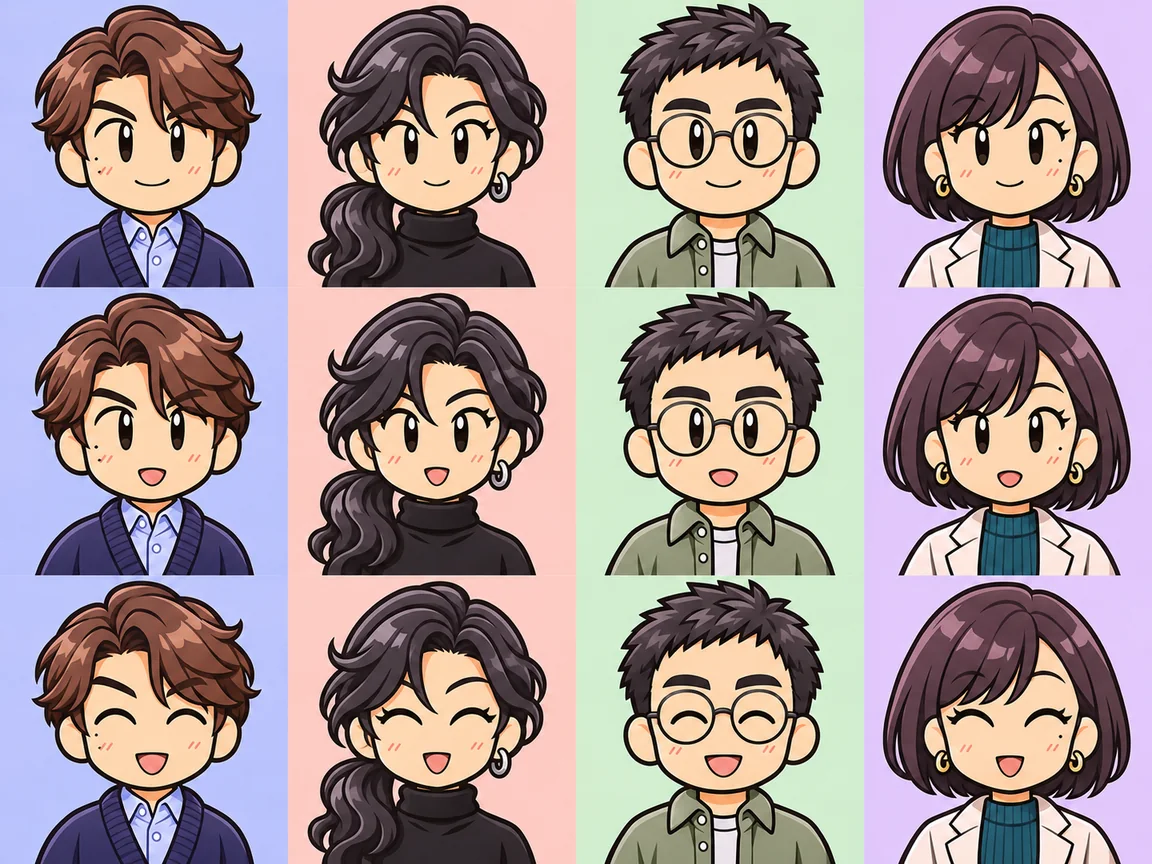
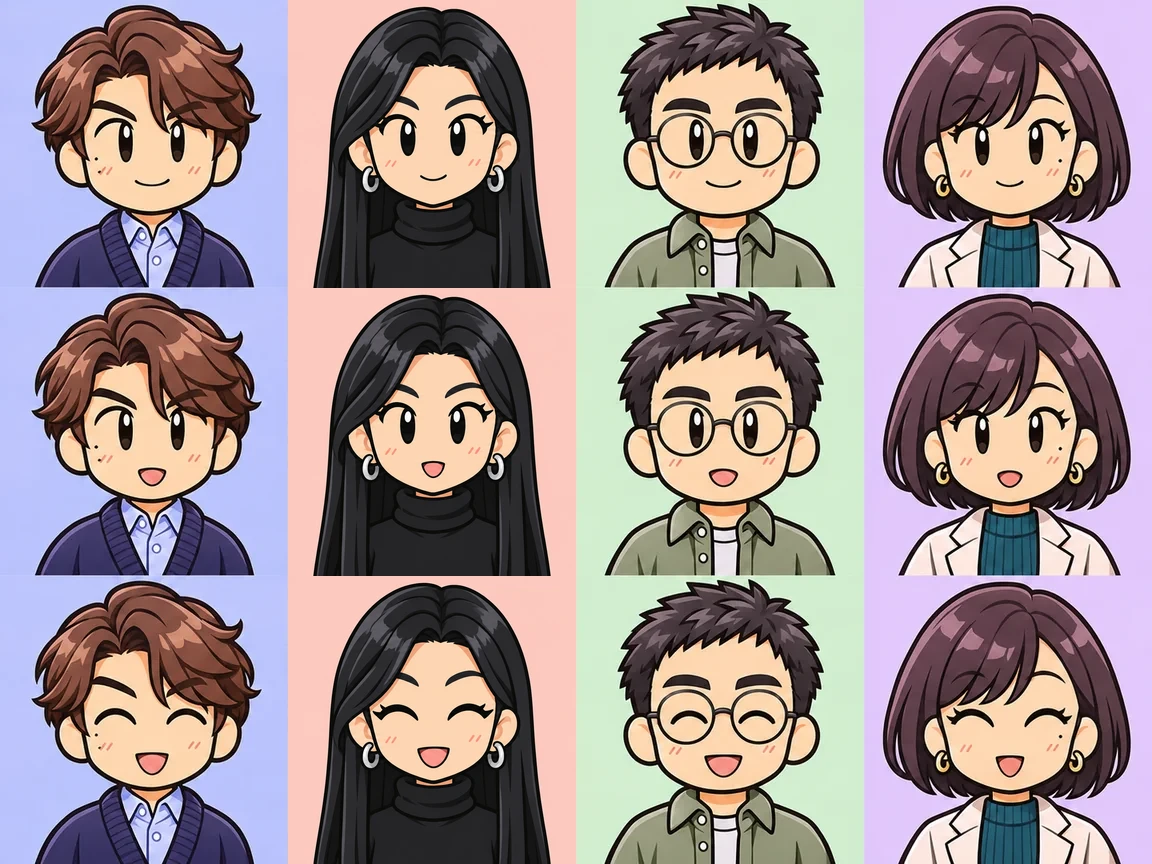
サイドメニューを開閉可能にしてメンバー紹介を更新

Changed region(s): [[0.25, 0.0, 0.5, 1.0]]

diff --git a/src/app.tsx b/src/app.tsx
@@ -1,4 +1,13 @@
-import { useCallback, useEffect, useRef, useState, type FormEvent, type ReactNode, type RefObject } from 'react';
+import {
+    useCallback,
+    useEffect,
+    useRef,
+    useState,
+    useSyncExternalStore,
+    type FormEvent,
+    type ReactNode,
+    type RefObject
+} from 'react';
 import {
     ArrowDownRight,
     ArrowRight,
@@ -18,6 +27,7 @@ import {
     LogOut,
     Menu,
     Moon,
+    PanelLeftClose,
     Sun,
     Terminal,
     X
@@ -58,6 +68,13 @@ function unlockedChapterFor(notice: Notice) {
 
 type Action = (input: Record<string, unknown>) => Promise<boolean>;
 const templateUrl = 'https://github.com/' + template;
+const mobileViewport = '(max-width: 650px)';
+
+function subscribeViewport(update: () => void) {
+    const media = window.matchMedia(mobileViewport);
+    media.addEventListener('change', update);
+    return () => media.removeEventListener('change', update);
+}
 
 export function App() {
     const [userId, setUserId] = useState<string | null>(null);
@@ -70,7 +87,13 @@ export function App() {
     const [message, setMessage] = useState('');
     const [toast, setToast] = useState<Notice | null>(null);
     const queuedToast = useRef<Notice | null>(null);
-    const [menu, setMenu] = useState(false);
+    const isMobile = useSyncExternalStore(subscribeViewport, () => window.matchMedia(mobileViewport).matches);
+    const [desktopMenuOpen, setDesktopMenuOpen] = useState(() => readPreference('devquest-sidebar') !== 'closed');
+    const [mobileMenuOpen, setMobileMenuOpen] = useState(false);
+    const menuOpen = isMobile ? mobileMenuOpen : desktopMenuOpen;
+    const menuToggleRef = useRef<HTMLButtonElement>(null);
+    const mobileCloseRef = useRef<HTMLButtonElement>(null);
+    const sidebarRef = useRef<HTMLElement>(null);
     const [theme, setTheme] = useState(() => (readPreference('devquest-theme') === 'dark' ? 'dark' : 'light'));
     const seen = useRef(new Set<number>());
     const activeUser = useRef<string | null>(null);
@@ -79,6 +102,7 @@ export function App() {
     const projectRef = useRef<HTMLElement>(null);
     const [showFirstDay, setShowFirstDay] = useState(() => readPreference('devquest-first-day') !== 'seen');
     const touring = showFirstDay && location.pathname === '/' && !loadingAuth;
+    const mobileDrawerOpen = isMobile && mobileMenuOpen && !touring;
     const demoMode = !userId;
     const home = demoMode ? demo : data;
     const unread = home.notifications.filter((notice) => !notice.read_at).length;
@@ -262,15 +286,65 @@ export function App() {
 
     function replayFirstDay() {
         setShowFirstDay(true);
-        setMenu(false);
+        setMobileMenuOpen(false);
         navigate('/');
     }
 
+    function setMenuOpen(open: boolean) {
+        if (isMobile) {
+            setMobileMenuOpen(open);
+        } else {
+            setDesktopMenuOpen(open);
+            savePreference('devquest-sidebar', open ? 'open' : 'closed');
+        }
+    }
+
+    function closeMenu() {
+        setMenuOpen(false);
+        requestAnimationFrame(() => menuToggleRef.current?.focus({ preventScroll: true }));
+    }
+
+    function toggleMenu() {
+        if (menuOpen) {
+            closeMenu();
+            return;
+        }
+        setMenuOpen(true);
+        requestAnimationFrame(() => {
+            const firstControl = isMobile ? mobileCloseRef.current : sidebarRef.current?.querySelector('a');
+            firstControl?.focus({ preventScroll: true });
+        });
+    }
+
+    function closeMobileMenuAfterNavigation() {
+        if (!isMobile) return;
+        setMobileMenuOpen(false);
+        requestAnimationFrame(() => {
+            if (document.activeElement === document.body) {
+                document.getElementById('main-content')?.focus({ preventScroll: true });
+            }
+        });
+    }
+
     return (
-        <div className="shell">
+        <div
+            className={'shell' + (menuOpen ? ' sidebar-open' : '')}
+            onKeyDown={(event) => {
+                if (event.key !== 'Escape' || event.defaultPrevented || !menuOpen || touring || celebration) return;
+                if (
+                    isMobile ||
+                    sidebarRef.current?.contains(event.target as Node) ||
+                    event.target === menuToggleRef.current
+                ) {
+                    event.preventDefault();
+                    closeMenu();
+                }
+            }}
+        >
             <a
                 className="skip-link"
                 href="#main-content"
+                inert={mobileDrawerOpen}
                 onClick={(event) => {
                     event.preventDefault();
                     document.getElementById('main-content')?.focus();
@@ -278,18 +352,30 @@ export function App() {
             >
                 本文へ移動
             </a>
-            <aside className={'sidebar' + (menu ? ' open' : '')} aria-label="サイドバー">
-                <Link className="brand" to="/" onClick={() => setMenu(false)}>
-                    <span className="brand-icon">
-                        <Code2 size={21} />
-                    </span>
-                    <strong>DevQuest</strong>
-                </Link>
+            {mobileDrawerOpen && <div className="sidebar-backdrop" aria-hidden="true" onClick={closeMenu} />}
+            <aside id="workspace-sidebar" className="sidebar" ref={sidebarRef} aria-label="サイドバー">
+                <div className="sidebar-header">
+                    <Link className="brand" to="/" onClick={closeMobileMenuAfterNavigation}>
+                        <span className="brand-icon">
+                            <Code2 size={21} />
+                        </span>
+                        <strong>DevQuest</strong>
+                    </Link>
+                    <button
+                        type="button"
+                        className="icon-button sidebar-close"
+                        ref={mobileCloseRef}
+                        aria-label="サイドメニューを閉じる"
+                        onClick={closeMenu}
+                    >
+                        <X size={19} aria-hidden="true" />
+                    </button>
+                </div>
                 <div className="sidebar-body">
                     <span className="nav-label">ワークスペース</span>
                     <nav aria-label="メインメニュー">
                         {workspaceLinks.map(({ id, to, label, icon: Icon }) => (
-                            <NavLink key={id} id={id} to={to} end={to === '/'} onClick={() => setMenu(false)}>
+                            <NavLink key={id} id={id} to={to} end={to === '/'} onClick={closeMobileMenuAfterNavigation}>
                                 <Icon size={17} />
                                 {label}
                                 {to === '/notifications' && unread > 0 && <span className="count">{unread}</span>}
@@ -297,7 +383,12 @@ export function App() {
                         ))}
                     </nav>
                     <span className="nav-label project-label">参加プロジェクト</span>
-                    <Link id={threadLink.id} className="mini-project" to={threadLink.to} onClick={() => setMenu(false)}>
+                    <Link
+                        id={threadLink.id}
+                        className="mini-project"
+                        to={threadLink.to}
+                        onClick={closeMobileMenuAfterNavigation}
+                    >
                         <span className="project-icon">T</span>
                         <span>
                             <strong>{threadLink.label}</strong>
@@ -307,21 +398,28 @@ export function App() {
                     </Link>
                 </div>
                 <div className="side-bottom">
-                    <Link id={settingsLink.id} to={settingsLink.to} onClick={() => setMenu(false)}>
+                    <Link id={settingsLink.id} to={settingsLink.to} onClick={closeMobileMenuAfterNavigation}>
                         <GitBranch size={16} /> {settingsLink.label}
                     </Link>
                 </div>
             </aside>
-            <div className="workspace">
+            <div className="workspace" inert={mobileDrawerOpen}>
                 <header className="topbar">
                     <div className="breadcrumb">
                         <button
-                            className="icon-button mobile-menu"
-                            aria-label="メニュー"
-                            aria-expanded={menu}
-                            onClick={() => setMenu((show) => !show)}
+                            type="button"
+                            className="icon-button"
+                            ref={menuToggleRef}
+                            aria-label={menuOpen ? 'サイドメニューを閉じる' : 'サイドメニューを開く'}
+                            aria-controls="workspace-sidebar"
+                            aria-expanded={menuOpen}
+                            onClick={toggleMenu}
                         >
-                            <Menu size={19} />
+                            {menuOpen ? (
+                                <PanelLeftClose size={19} aria-hidden="true" />
+                            ) : (
+                                <Menu size={19} aria-hidden="true" />
+                            )}
                         </button>
                         <span>ワークスペース</span>
                         <span aria-hidden="true">/</span>

diff --git a/src/team-members.tsx b/src/team-members.tsx
@@ -14,37 +14,33 @@ const profiles = {
         column: 0,
         expression: 'neutral',
         specialty: '要件整理と進行管理',
-        quote: 'この改修で、誰の何が楽になるかな？',
-        work: '店舗スタッフの相談を聞き、開発チームが一度に取り組める大きさの依頼にまとめる。締め切りが重なったときは、お客様への影響をもとに順番を決める。',
-        habit: '朝会には小さなノートを持ってくる。話がまとまると、最後に「今日決めたこと」を一行で読み返す。'
+        work: '店舗スタッフの「ちょっとお願い」を聞き、開発チームが着手できる大きさのチケットにする。「ちょっと」にしては長い話も、誰が何に困っているかまで丁寧に聞く。',
+        habit: '朝会で「最後に一つだけ」と言ったら、本当に一つで終わる。ただし、その一つに箇条書きが三つあることはある。'
     },
     director: {
         column: 1,
         expression: 'talking',
         specialty: '購入体験と画面設計',
-        quote: 'そのボタン、片手で探しても見つかる？',
-        work: '服を探してから購入するまでの画面を設計する。店頭でお客様が使う言葉をメモして、ボタンの文言や商品の見せ方に活かしている。',
-        habit: 'レビューの最初にスマートフォンを取り出す。迷ったところはスクリーンショットを撮って、変更前後を並べて見せる。'
+        work: '服を探してから買うまでの画面を設計する。カートにたどり着くまでに三回迷った画面を、レビューで「ちょっとした街歩き」と呼んだことがある。',
+        habit: 'レビューはスマホ片手で始める。気づいた箇所はスクリーンショットで共有するので、チーム内ではどの端末よりも鈴木の親指が先に仕様を覚えると言われている。'
     },
     ops: {
         column: 2,
         expression: 'happy',
         specialty: '店舗運用と障害調査',
-        quote: '最後にうまく動いたのは、いつだった？',
-        work: '注文や在庫が店舗に正しく届くようにシステムを見守る。トラブルが起きると、操作時刻とログを突き合わせて原因を絞り込む。',
-        habit: '引き継ぎの前に手順書を自分で試す。初めて読む人が迷ったところには、翌日さりげなく一言書き足している。'
+        work: '注文や在庫が店舗に正しく届くように見守る。「さっきまで動いていた」と聞くと穏やかに「さっきは何時ごろ？」と返し、その時刻のログを開く。',
+        habit: '引き継ぎ前には手順書を自分で最初から試す。「あとはいつも通り」と書かれた箇所を見つけると、必要な手順を静かに書き足す。'
     },
     qa: {
         column: 3,
         expression: 'talking',
         specialty: '品質保証と再現手順',
-        quote: '同じことがもう一度起きるか、一緒に試そう。',
-        work: 'お客様から届いた違和感を再現し、どの操作で何が起きるかを整理する。修正後は、元の操作とその前後の流れをもう一度確かめる。',
-        habit: 'うまくいったケースも記録に残す。失敗したケースのすぐ隣に並べると、小さな違いに気づきやすいらしい。'
+        work: 'お客様が遭遇した不具合を再現して、誰でも同じ手順で確認できるようにする。「たまに起きます」と聞くと少しうれしそうになる。再現できた日はもっとうれしそう。',
+        habit: '修正後は在庫0件と1件のように、表示が切り替わる境目を並べて試す。テスト用のカートでは同じTシャツを何度も買っているが、クローゼットにはまだ一枚もない。'
     }
 } satisfies Record<
     MemberId,
-    { column: number; expression: Expression; specialty: string; quote: string; work: string; habit: string }
+    { column: number; expression: Expression; specialty: string; work: string; habit: string }
 >;
 
 export const memberIds = Object.keys(profiles) as MemberId[];
@@ -150,7 +146,6 @@ export function MemberProfile({ home }: { home: Home }) {
                         <h1 ref={headingRef} tabIndex={-1}>
                             {team[member].name}
                         </h1>
-                        <blockquote>「{profile.quote}」</blockquote>
                     </div>
                 </header>
                 <dl className="member-bio">

diff --git a/src/styles.css b/src/styles.css
@@ -113,6 +113,12 @@ h2 {
     grid-template-columns: 228px minmax(0, 1fr);
     min-height: 100dvh;
 }
+.shell:not(.sidebar-open):not(:has(.scene-menu[open])) {
+    grid-template-columns: minmax(0, 1fr);
+}
+.shell:not(.sidebar-open):not(:has(.scene-menu[open])) .sidebar {
+    display: none;
+}
 .sidebar {
     position: sticky;
     top: 0;
@@ -122,6 +128,15 @@ h2 {
     background: var(--sidebar);
     border-right: 1px solid var(--line);
     z-index: 3;
+}
+.sidebar-header {
+    display: flex;
+    align-items: center;
+    justify-content: space-between;
+    flex-shrink: 0;
+}
+.sidebar-header .sidebar-close {
+    display: none;
 }
 .brand {
     height: 68px;
@@ -222,12 +237,16 @@ h2 {
     border-top: 1px solid var(--line);
 }
 .topbar {
+    position: sticky;
+    top: 0;
+    z-index: 2;
     min-height: 62px;
     padding: 10px clamp(14px, 3vw, 30px);
     display: flex;
     justify-content: space-between;
     align-items: center;
     gap: 12px;
+    background: var(--canvas);
     border-bottom: 1px solid var(--line);
 }
 .breadcrumb,
@@ -264,9 +283,6 @@ h2 {
     height: 7px;
     background: var(--accent);
     border-radius: 50%;
-}
-.mobile-menu {
-    display: none;
 }
 .button {
     display: inline-flex;
@@ -723,18 +739,25 @@ input {
         display: block;
     }
     .sidebar {
-        display: none;
-    }
-    .sidebar.open {
-        display: flex;
         position: fixed;
-        top: 62px;
-        height: calc(100dvh - 62px);
-        width: 220px;
+        inset: 0 auto 0 0;
+        width: min(260px, calc(100% - 52px));
+        z-index: 7;
         box-shadow: 8px 0 20px #0005;
     }
-    .mobile-menu {
+    .sidebar-header .sidebar-close {
         display: inline-grid;
+        margin-right: 12px;
+    }
+    .sidebar-backdrop {
+        position: fixed;
+        inset: 0;
+        z-index: 6;
+        background: rgb(8 12 21 / 45%);
+        touch-action: none;
+    }
+    body:has(.sidebar-backdrop) {
+        overflow: hidden;
     }
     .breadcrumb > span {
         display: none;

diff --git a/src/team-members.css b/src/team-members.css
@@ -100,9 +100,6 @@
 .member-intro > div {
     padding: 14px 16px 14px 0;
 }
-.member-intro blockquote {
-    margin: 12px 0 0;
-}
 .member-bio {
     display: grid;
     grid-template-columns: auto 1fr;
@@ -159,10 +156,6 @@
     }
     .member-intro > div {
         padding: 0;
-    }
-    .member-intro blockquote {
-        margin-top: 6px;
-        font-size: 13px;
     }
     .member-requests li a {
         grid-template-columns: auto 1fr;

diff --git a/src/first-day.css b/src/first-day.css
@@ -342,6 +342,9 @@ body:has(.first-day[open]) {
     overflow-y: auto;
     box-shadow: 0 0 0 200vmax rgb(8 12 21 / 74%);
 }
+.shell:has(.scene-menu[open]) .sidebar-close {
+    display: none;
+}
 .shell:has(.scene-menu[open]) .sidebar-body {
     flex: 1 0 auto;
     overflow: visible;
